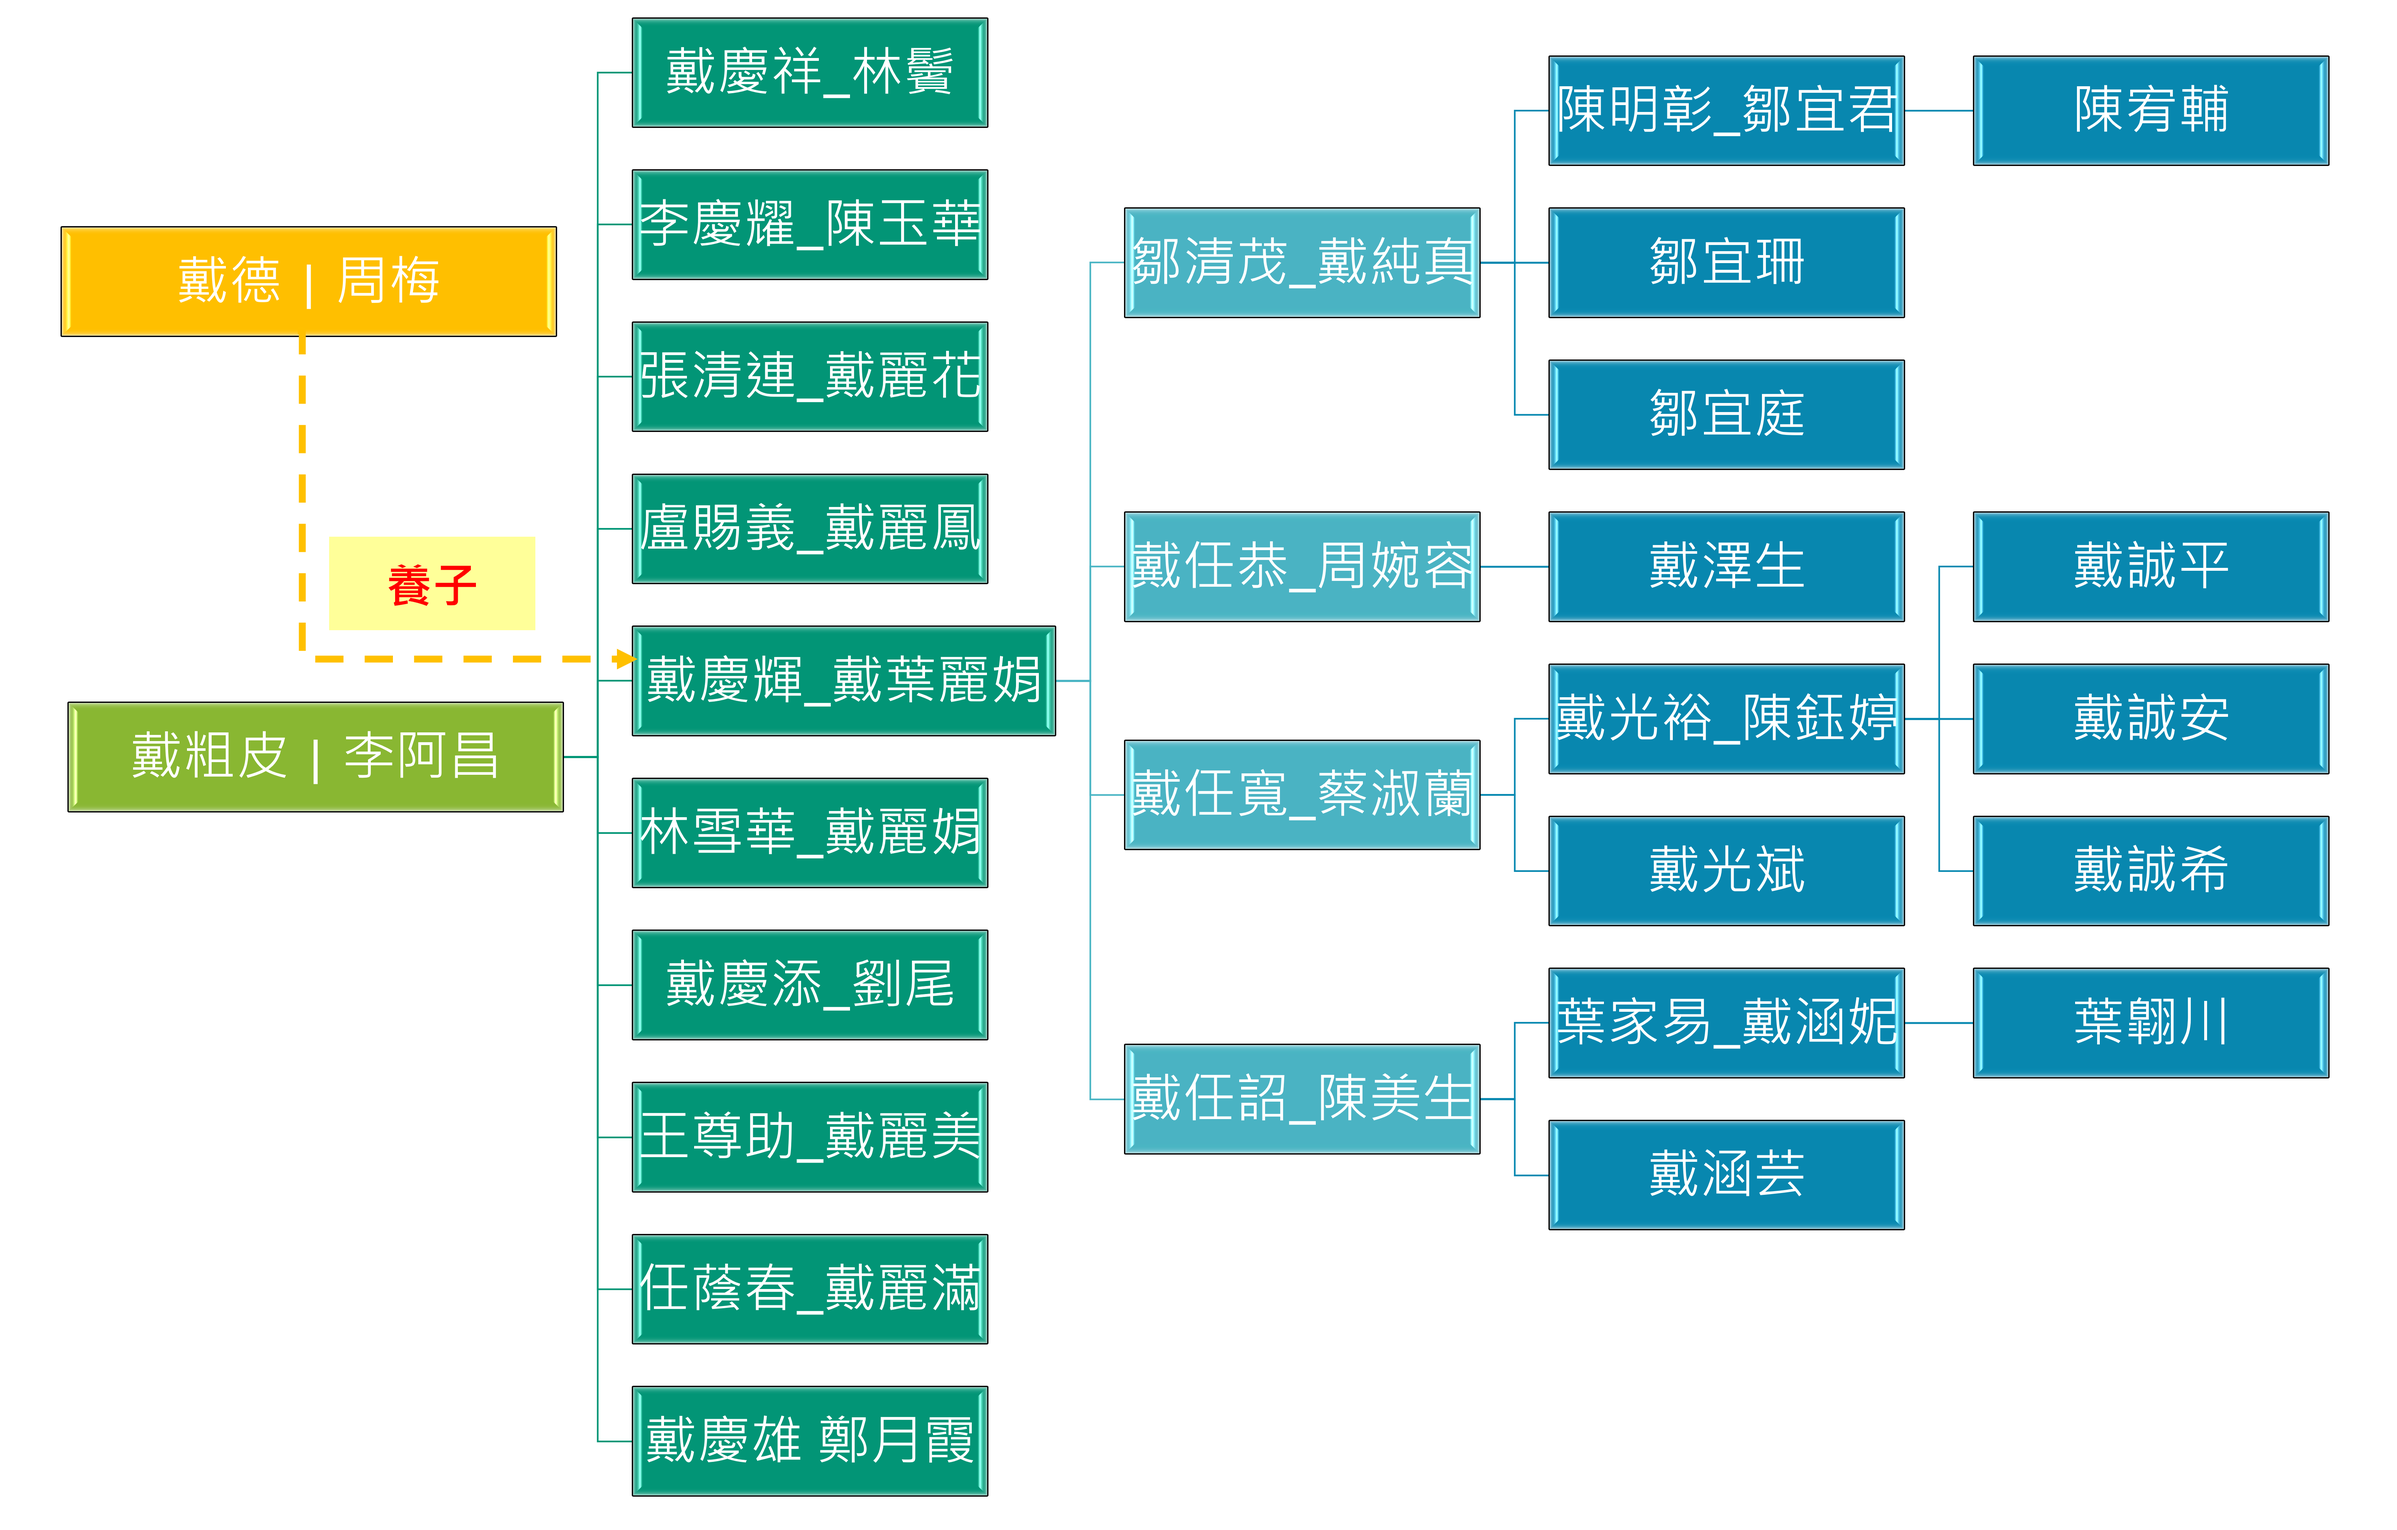
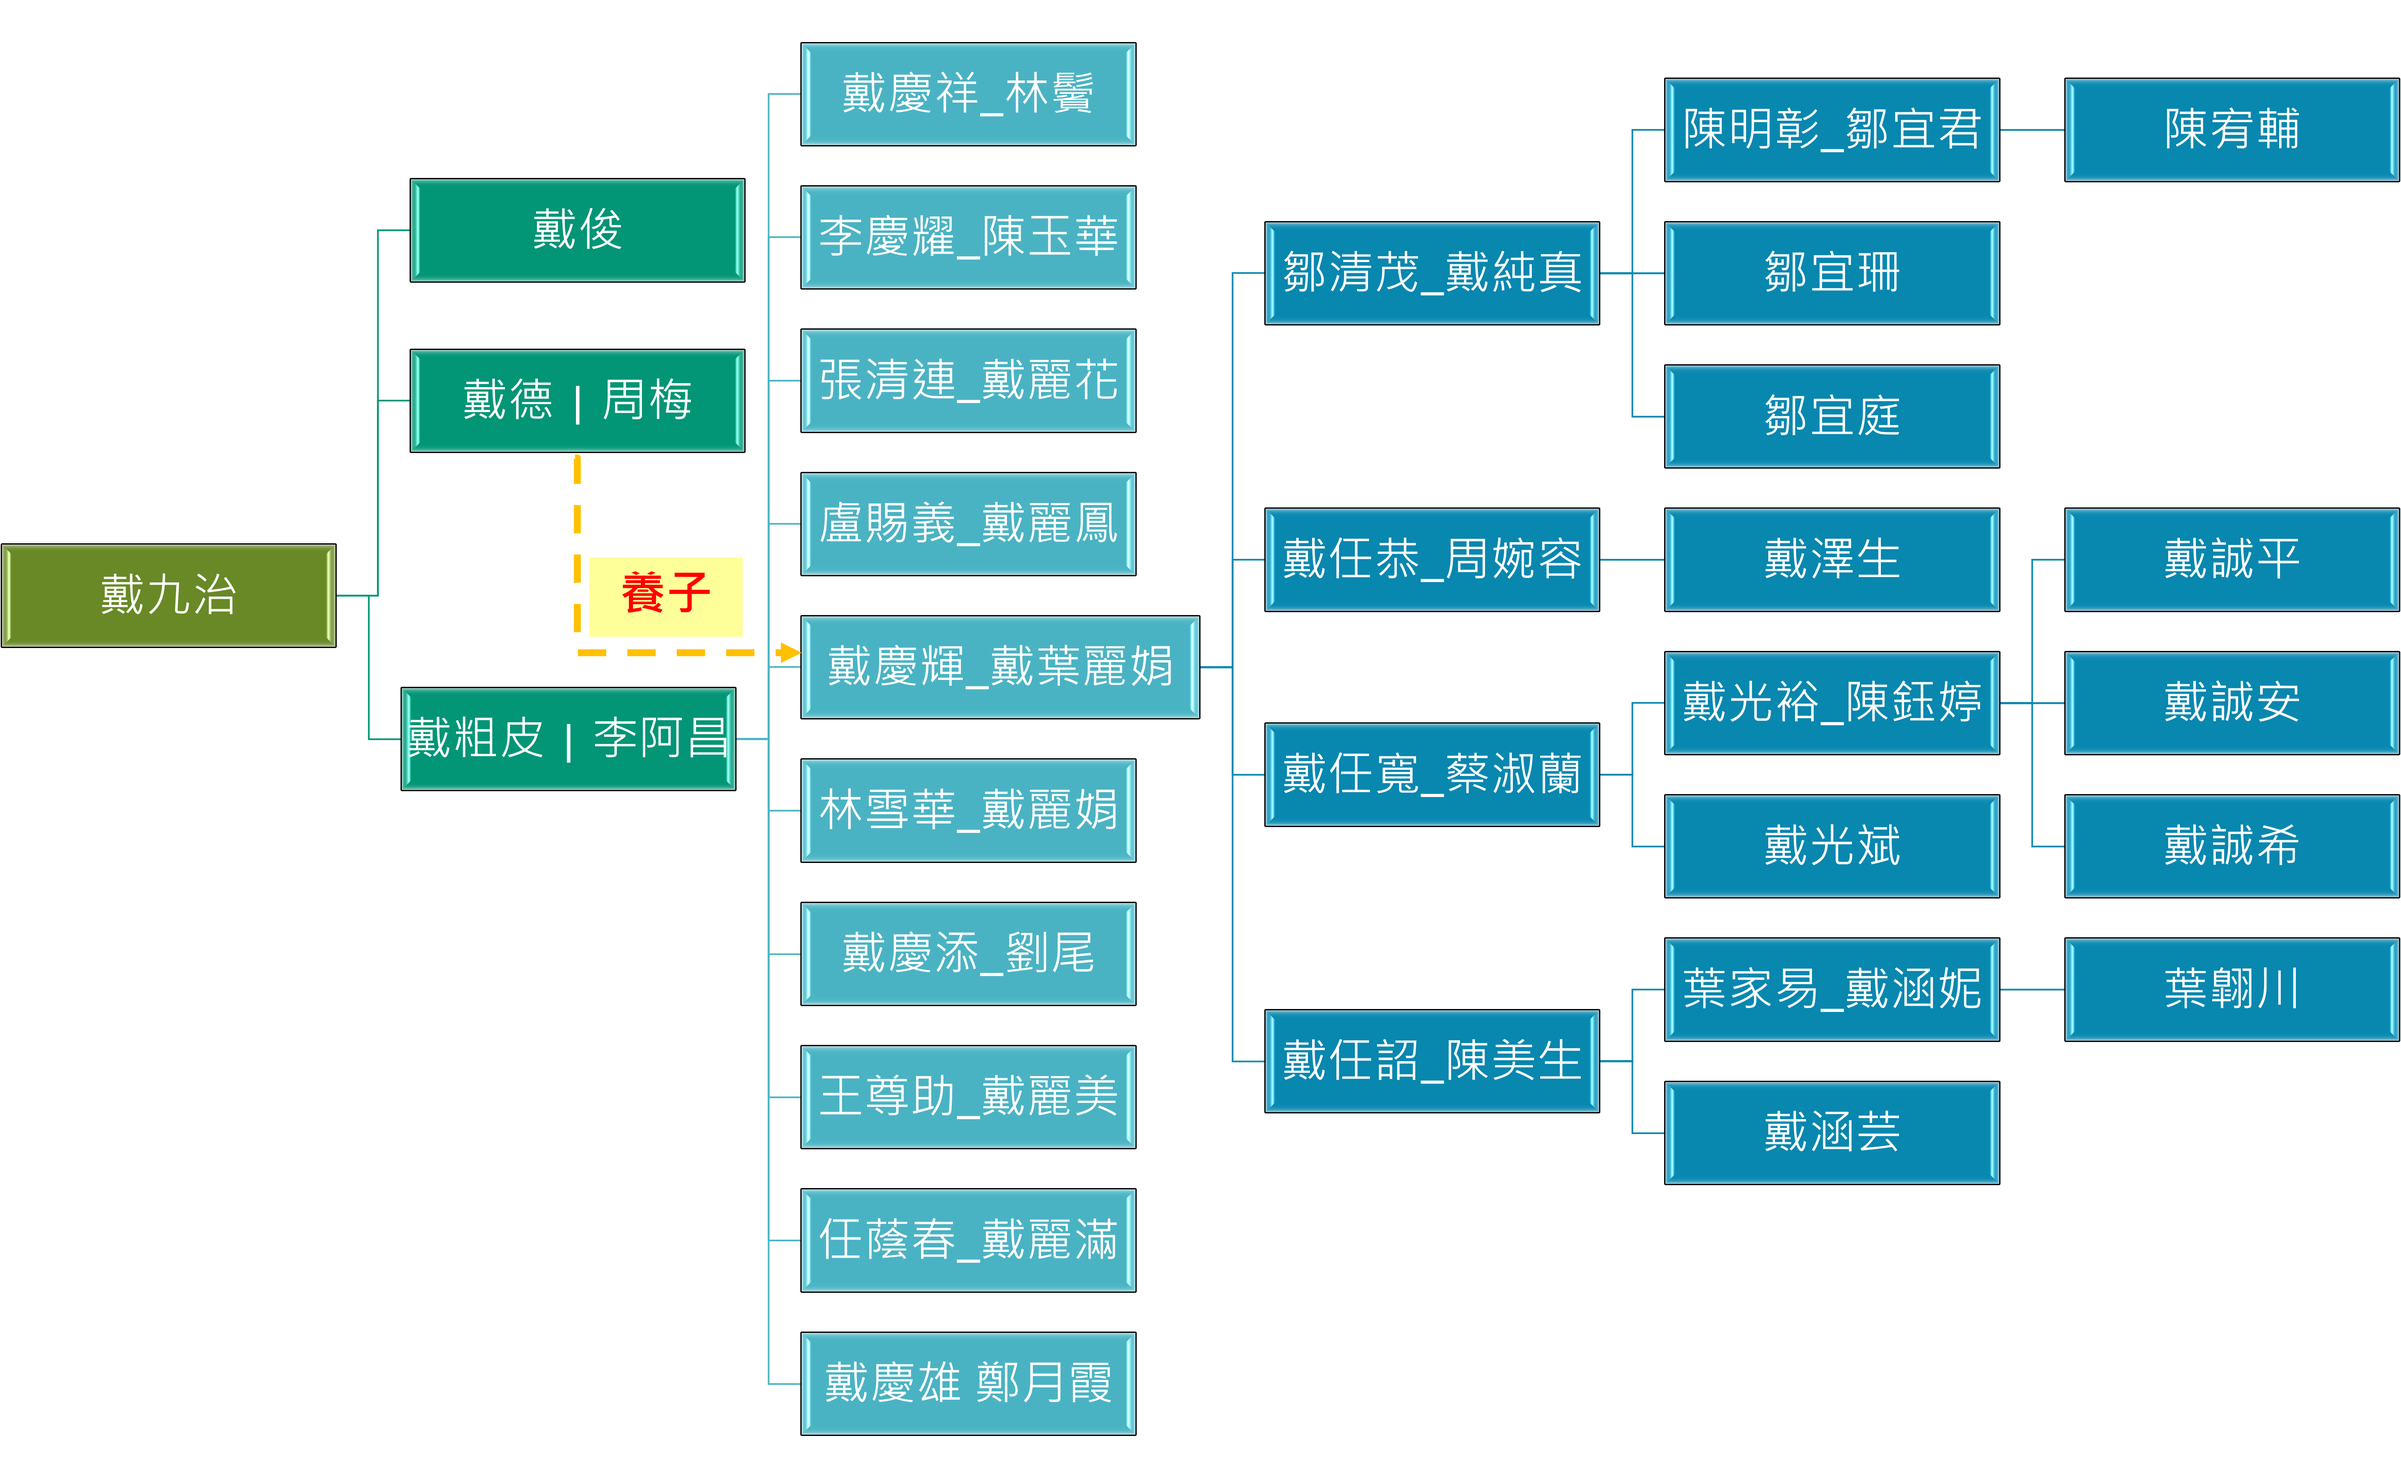
族譜

diff --git a/youtube/戴慶輝家族_link_P.html b/youtube/戴慶輝家族_link_P.html
@@ -65,7 +65,7 @@
         </ul>
         <img src="../doc/2019_戴家.jpg" width='90%' alt="">
         <img src="../doc/1963_戴家彩.jpg" width='90%' alt="">
-        <image src="../doc/族譜_祖先.png"  width='90%'></image>
+        <!-- <image src="../doc/族譜_祖先.png"  width='90%'></image> -->
         <image src="../doc/族譜.png"  width='90%'></image>
 
         <iframe src="https://www.youtube.com/embed/videoseries?list=PLTNdyMrqd4o0t3vI_3hn6J41vko8-TgWC" frameborder="0"
